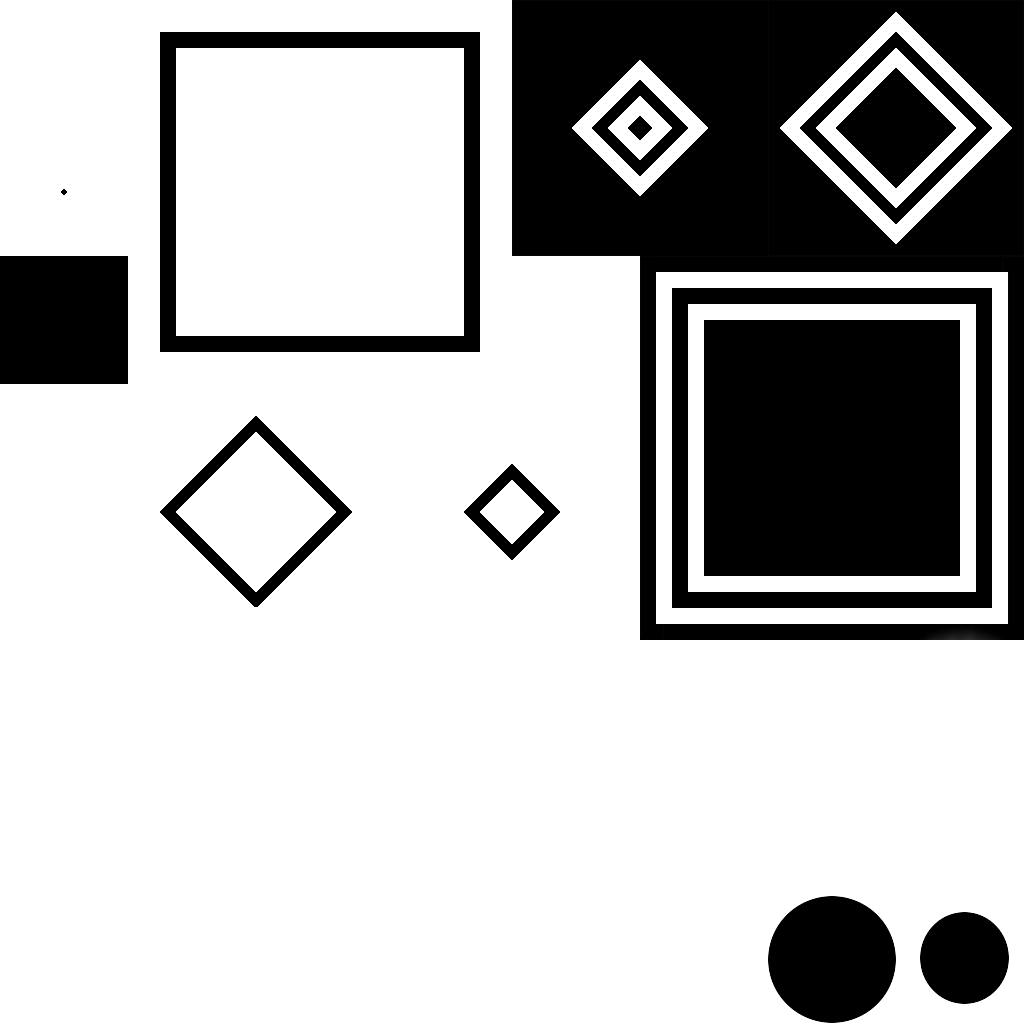
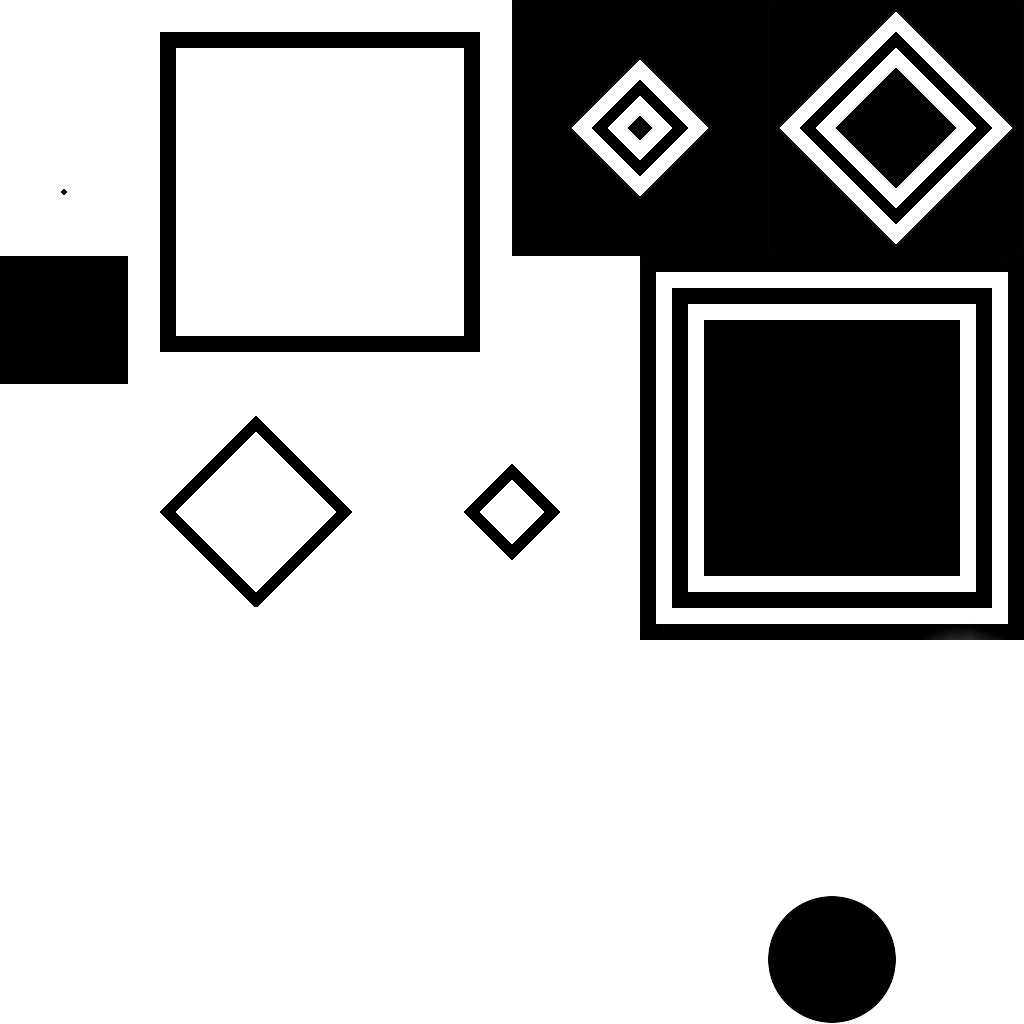
New map and magical things.

Changed region(s): [[0.875, 0.875, 1.0, 1.0]]

diff --git a/src/com/wuballiance/ld33/Main.java b/src/com/wuballiance/ld33/Main.java
@@ -1,4 +1,5 @@
 package com.wuballiance.ld33;
+
 import static com.osreboot.ridhvl.painter.painter2d.HvlPainter2D.*;
 
 import java.util.HashMap;
@@ -24,18 +25,18 @@ import com.osreboot.ridhvl.template.HvlTemplateInteg2D;
 import com.osreboot.ridhvl.tile.HvlTilemapCollisionUtil;
 
 public class Main extends HvlTemplateInteg2D {
-	
+
 	public static Map<String, Integer> pars;
-	
-	public static final int tilesheetIndex = 0, fontIndex = 1, player1Index = 2, player2Index = 3, playerSmall1Index = 4,
-			playerSmall2Index = 5, player3Index = 6, spikeAnimationIndex = 7, wallParticleIndex = 8, playerAnimationIndex = 9,
-			auraIndex = 10, logoIndex = 11, logoInvertIndex = 12, darkenAnimationIndex = 13, explosionAnimationIndex = 14, dotAnimationIndex = 15, tutorial1Index = 16;
+
+	public static final int tilesheetIndex = 0, fontIndex = 1, player1Index = 2, player2Index = 3, playerSmall1Index = 4, playerSmall2Index = 5,
+			player3Index = 6, spikeAnimationIndex = 7, wallParticleIndex = 8, playerAnimationIndex = 9, auraIndex = 10, logoIndex = 11, logoInvertIndex = 12,
+			darkenAnimationIndex = 13, explosionAnimationIndex = 14, dotAnimationIndex = 15, tutorial1Index = 16, smallBombIndex = 17;
 
 	private float playerRotation = 0;
-	
+
 	public static HvlRenderFrame frame1, frame2;
 	public static HvlShader bloom1, bloom2;
-	
+
 	public static HvlAnimatedTextureUV collisionAnimation, playerAnimation;
 
 	public static void main(String[] args) {
@@ -49,7 +50,7 @@ public class Main extends HvlTemplateInteg2D {
 	@Override
 	public void initialize() {
 		getTimer().setMaxDelta(HvlTimer.MD_TENTH);
-		
+
 		HvlTilemapCollisionUtil.registerCornerSet(25, 26, 33, 34);
 
 		getTextureLoader().loadResource("TilesheetBlur");
@@ -69,31 +70,33 @@ public class Main extends HvlTemplateInteg2D {
 		getTextureLoader().loadResource("ExplosionAnimation");
 		getTextureLoader().loadResource("DotAnimation");
 		getTextureLoader().loadResource("Tutorial1");
-		
+		getTextureLoader().loadResource("SmallBombAnimation");
+
 		pars = new HashMap<>();
 		pars.put("TestMap", 4);
-		
+
 		collisionAnimation = new HvlAnimatedTextureUV(getTexture(spikeAnimationIndex), 256, 64, 0.02f);
 		collisionAnimation.setAutoStop(true);
-		
+
 		playerAnimation = new HvlAnimatedTextureUV(getTexture(playerAnimationIndex), 512, 62, 0.02f);
-		
+
 		frame1 = new HvlRenderFrame(HvlRenderFrameProfile.DEFAULT, Display.getWidth(), Display.getHeight());
 		frame2 = new HvlRenderFrame(HvlRenderFrameProfile.DEFAULT, Display.getWidth(), Display.getHeight());
 		bloom1 = new HvlShader(HvlShader.PATH_SHADER_DEFAULT + "bloom1" + HvlShader.SUFFIX_FRAGMENT);
 		bloom2 = new HvlShader(HvlShader.PATH_SHADER_DEFAULT + "bloom2" + HvlShader.SUFFIX_FRAGMENT);
-		
+
 		MenuManager.initialize();
 
 		HvlCamera.setAlignment(HvlCameraAlignment.CENTER);
 	}
 
 	@Override
-	public void update(float delta){
-		hvlDrawQuad(HvlCamera.getX() - (Display.getWidth()/2), HvlCamera.getY() - (Display.getHeight()/2), Display.getWidth(), Display.getHeight(), new Color(1, 1, 1, getZoom()));
-		
-		frame1.setX((int)(HvlCamera.getX() - (Display.getWidth()/2)));
-		frame1.setY((int)(HvlCamera.getY() - (Display.getHeight()/2)));
+	public void update(float delta) {
+		hvlDrawQuad(HvlCamera.getX() - (Display.getWidth() / 2), HvlCamera.getY() - (Display.getHeight() / 2), Display.getWidth(), Display.getHeight(),
+				new Color(1, 1, 1, getZoom()));
+
+		frame1.setX((int) (HvlCamera.getX() - (Display.getWidth() / 2)));
+		frame1.setY((int) (HvlCamera.getY() - (Display.getHeight() / 2)));
 		HvlRenderFrame.setCurrentRenderFrame(frame1);
 		HvlCamera.doTransformation(HvlCameraTransformation.NEGATIVE);
 		playerRotation += delta;
@@ -102,7 +105,7 @@ public class Main extends HvlTemplateInteg2D {
 		drawHealthBar(delta);
 		HvlCamera.doTransformation(HvlCameraTransformation.UNDONEGATIVE);
 		HvlRenderFrame.setCurrentRenderFrame(null);
-		
+
 		HvlRenderFrame.setCurrentRenderFrame(frame2);
 		HvlShader.setCurrentShader(bloom1);
 		HvlCamera.doTransformation(HvlCameraTransformation.NEGATIVE);
@@ -110,77 +113,82 @@ public class Main extends HvlTemplateInteg2D {
 		HvlCamera.doTransformation(HvlCameraTransformation.UNDONEGATIVE);
 		HvlShader.setCurrentShader(null);
 		HvlRenderFrame.setCurrentRenderFrame(null);
-		
+
 		HvlShader.setCurrentShader(bloom2);
 		HvlCamera.undoTransform();
 		hvlDrawQuad(0, 0, Display.getWidth(), Display.getHeight(), frame2);
 		HvlCamera.doTransform();
 		HvlShader.setCurrentShader(null);
-		
+
 		HvlCamera.doTransformation(HvlCameraTransformation.NEGATIVE);
 		hvlDrawQuad(0, 0, Display.getWidth(), Display.getHeight(), frame1);
 		HvlCamera.doTransformation(HvlCameraTransformation.UNDONEGATIVE);
-		
+
 		drawPlayer(delta);
 	}
-	
+
 	public static final float maxZoom = 2f, mapFadeThreshold = 1.2f;
 	private static float zoom = maxZoom;
 	private float zoomGoal = maxZoom;
-	
-	private void drawPlayer(float delta){
-		if(HvlMenu.getCurrent() == MenuManager.game){
+
+	private void drawPlayer(float delta) {
+		if (HvlMenu.getCurrent() == MenuManager.game) {
 			HvlCamera.setPosition(Player.getX(), Player.getY());
 			zoomGoal = maxZoom;
-		}else if(HvlMenu.getCurrent() == MenuManager.splash){
-			HvlCamera.setPosition((Display.getWidth()/2), (Display.getHeight()/2));
+		} else if (HvlMenu.getCurrent() == MenuManager.splash) {
+			HvlCamera.setPosition((Display.getWidth() / 2), (Display.getHeight() / 2));
 			zoomGoal = maxZoom;
 			Splash.draw(delta);
-		}else{
-			HvlCamera.setPosition((Display.getWidth()/2), (Display.getHeight()/2));
+		} else {
+			HvlCamera.setPosition((Display.getWidth() / 2), (Display.getHeight() / 2));
 			zoomGoal = 0f;
 		}
-		
+
 		zoom = HvlMath.stepTowards(zoom, delta, zoomGoal);
 		Game.mapOpacity = zoom > mapFadeThreshold ? (zoom - mapFadeThreshold) / (maxZoom - mapFadeThreshold) : 0;
 
 		HvlCamera.undoTransform();
 		float size = HvlMath.lerp(512, Player.radius, Math.min(zoom, 1));
 		HvlCoord offset = Splash.getOffset();
-		hvlRotate((Display.getWidth()/2) + offset.x, (Display.getHeight()/2) + offset.y, playerRotation * -4);
-		hvlDrawQuad((Display.getWidth()/2) - size + offset.x, (Display.getHeight()/2) - size + offset.y, size*2, size*2, getTexture(player3Index), new Color(1, 1, 1, 1 - zoom - (float)Math.sin(playerRotation)));
+		hvlRotate((Display.getWidth() / 2) + offset.x, (Display.getHeight() / 2) + offset.y, playerRotation * -4);
+		hvlDrawQuad((Display.getWidth() / 2) - size + offset.x, (Display.getHeight() / 2) - size + offset.y, size * 2, size * 2, getTexture(player3Index),
+				new Color(1, 1, 1, 1 - zoom - (float) Math.sin(playerRotation)));
 		hvlResetRotation();
-		hvlRotate((Display.getWidth()/2) + offset.x, (Display.getHeight()/2) + offset.y, -playerRotation * 3);
-		hvlDrawQuad((Display.getWidth()/2) - size + offset.x, (Display.getHeight()/2) - size + offset.y, size*2, size*2, getTexture(player2Index), new Color(1, 1, 1, 1 - zoom));
+		hvlRotate((Display.getWidth() / 2) + offset.x, (Display.getHeight() / 2) + offset.y, -playerRotation * 3);
+		hvlDrawQuad((Display.getWidth() / 2) - size + offset.x, (Display.getHeight() / 2) - size + offset.y, size * 2, size * 2, getTexture(player2Index),
+				new Color(1, 1, 1, 1 - zoom));
 		hvlResetRotation();
-		hvlRotate((Display.getWidth()/2) + offset.x, (Display.getHeight()/2) + offset.y, playerRotation * 2);
-		hvlDrawQuad((Display.getWidth()/2) - size + offset.x, (Display.getHeight()/2) - size + offset.y, size*2, size*2, getTexture(player1Index), new Color(1, 1, 1, 1 - zoom));
+		hvlRotate((Display.getWidth() / 2) + offset.x, (Display.getHeight() / 2) + offset.y, playerRotation * 2);
+		hvlDrawQuad((Display.getWidth() / 2) - size + offset.x, (Display.getHeight() / 2) - size + offset.y, size * 2, size * 2, getTexture(player1Index),
+				new Color(1, 1, 1, 1 - zoom));
 		hvlResetRotation();
 
-		float size2 = (size*2.5f);
-		HvlPainter2D.hvlDrawQuad((Display.getWidth()/2) - (size2*2) + offset.x, (Display.getHeight()/2) - (size2*2) + offset.y, (size2*2)*2, (size2*2)*2, playerAnimation, new Color(1, 1, 1, -(0.9f - zoom)));
+		float size2 = (size * 2.5f);
+		HvlPainter2D.hvlDrawQuad((Display.getWidth() / 2) - (size2 * 2) + offset.x, (Display.getHeight() / 2) - (size2 * 2) + offset.y, (size2 * 2) * 2,
+				(size2 * 2) * 2, playerAnimation, new Color(1, 1, 1, -(0.9f - zoom)));
 
 		HvlCamera.doTransform();
 	}
-	
-	public static float getZoom(){
-		return zoom/maxZoom;
+
+	public static float getZoom() {
+		return zoom / maxZoom;
 	}
-	
+
 	private static float barProgress = 0;
-	
-	public static void resetBar(){
+
+	public static void resetBar() {
 		barProgress = 0;
 	}
-	
-	private void drawHealthBar(float delta){
-		barProgress = HvlMath.stepTowards(barProgress, delta/2, Game.getHealthBar());
-		if(HvlMenu.getCurrent() == MenuManager.game){
+
+	private void drawHealthBar(float delta) {
+		barProgress = HvlMath.stepTowards(barProgress, delta / 2, Game.getHealthBar());
+		if (HvlMenu.getCurrent() == MenuManager.game) {
 			HvlCoord offset = Player.getPos();
-			hvlDrawLine(offset.x - (Display.getWidth()/8) - 4, offset.y - (Display.getHeight()/16 * 7), 
-					offset.x + (Display.getWidth()/8) + 4, offset.y - (Display.getHeight()/16 * 7), new Color(0.4f, 0.4f, 0.4f, getZoom()), 8);
-			hvlDrawLine(offset.x - (Display.getWidth()/8), offset.y - (Display.getHeight()/16 * 7), 
-					offset.x - (Display.getWidth()/8) + ((Display.getWidth()/4)*barProgress), offset.y - (Display.getHeight()/16 * 7), new Color(0, 0, 0, getZoom()), 4);
+			hvlDrawLine(offset.x - (Display.getWidth() / 8) - 4, offset.y - (Display.getHeight() / 16 * 7), offset.x + (Display.getWidth() / 8) + 4, offset.y
+					- (Display.getHeight() / 16 * 7), new Color(0.4f, 0.4f, 0.4f, getZoom()), 8);
+			hvlDrawLine(offset.x - (Display.getWidth() / 8), offset.y - (Display.getHeight() / 16 * 7),
+					offset.x - (Display.getWidth() / 8) + ((Display.getWidth() / 4) * barProgress), offset.y - (Display.getHeight() / 16 * 7), new Color(0, 0,
+							0, getZoom()), 4);
 		}
 	}
 

diff --git a/src/com/wuballiance/ld33/Game.java b/src/com/wuballiance/ld33/Game.java
@@ -83,6 +83,8 @@ public class Game {
 	public static List<Explosion> explosionsToAdd;
 
 	private static Map<TileCoord, HvlAnimatedTextureUV> dotAnimations;
+	
+	private static Map<TileCoord, HvlAnimatedTextureUV> bombIdleAnimations;
 
 	public static int currentTurn;
 	public static int par;
@@ -99,6 +101,7 @@ public class Game {
 		opacities.clear();
 		tileCoverAnimations.clear();
 		explosionAnimations.clear();
+		bombIdleAnimations.clear();
 		explosions.clear();
 		explosionsToAdd.clear();
 		dotAnimations.clear();
@@ -178,6 +181,7 @@ public class Game {
 		explosionAnimations = new HashMap<>();
 		explosionsToAdd = new LinkedList<>();
 		dotAnimations = new HashMap<>();
+		bombIdleAnimations = new HashMap<>();
 		tileReps = new HashMap<>();
 		tileReps.put(1, 21);
 		tileReps.put(2, 22);
@@ -604,6 +608,12 @@ public class Game {
 
 	public static HvlAnimatedTextureUV getDotAnimation(int frame) {
 		HvlAnimatedTextureUV tr = new HvlAnimatedTextureUV(HvlTemplateInteg2D.getTexture(Main.dotAnimationIndex), 256, 62, 0.08f);
+		tr.setCurrentFrame(frame % tr.getAnimationLength());
+		return tr;
+	}
+	
+	public static HvlAnimatedTextureUV getSmallBombAnimation(int frame) {
+		HvlAnimatedTextureUV tr = new HvlAnimatedTextureUV(HvlTemplateInteg2D.getTexture(Main.smallBombIndex), 256, 62, 0.08f);
 		tr.setCurrentFrame(frame % tr.getAnimationLength());
 		return tr;
 	}
